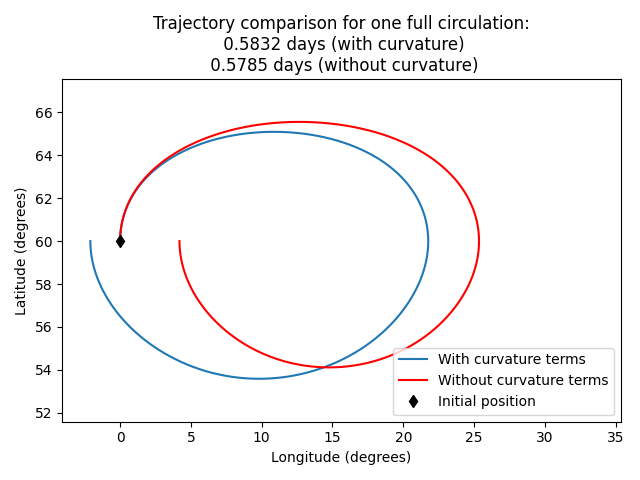
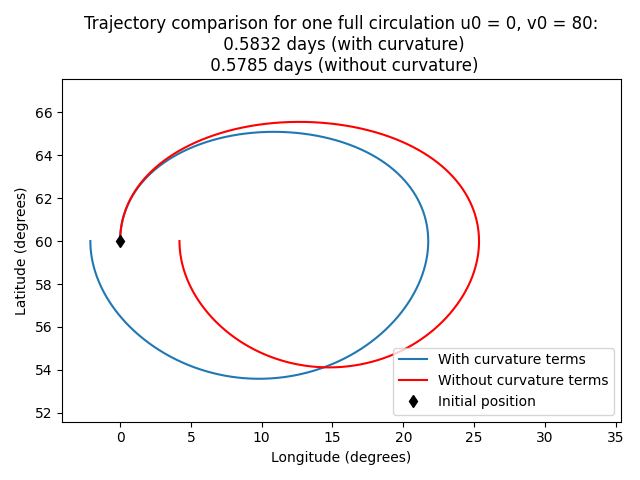
Add files via upload

Changed region(s): [[0.125, 0.0312, 0.9375, 0.0625]]

diff --git a/HW1/chapter_1/coriolis_up.py b/HW1/chapter_1/coriolis_up.py
@@ -135,7 +135,7 @@ def plot_1_circulation_in_1_window(init_lat, u0, v0, runtime_days_with_c, runtim
     plt.plot(long_with_one, lat_with_one, label='With curvature terms') #line color: rainbow
     plt.plot(long_without_one, lat_without_one, 'r', label='Without curvature terms')
     plt.plot(long_with_one[0], lat_with_one[0], 'kd', label='Initial position')
-    plt.title(f'Trajectory comparison for one full circulation:\n {runtime_days_with_c:.4f} days (with curvature)\n {runtime_days_without_c:.4f} days (without curvature)')
+    plt.title(f'Trajectory comparison for one full circulation u0 = {u0}, v0 = {v0}:\n {runtime_days_with_c:.4f} days (with curvature)\n {runtime_days_without_c:.4f} days (without curvature)')
     plt.xlabel('Longitude (degrees)')
     plt.ylabel('Latitude (degrees)')
     plt.ylim(min_lat-2, max_lat+2)  # Set y-axis limits to focus on the region around the initial latitude
@@ -215,21 +215,25 @@ def main():
     (a) Initial latitude 60°, u0 = 40 m/s, v0 = 40 m/s, runtime = 5 days.
     (b) Initial latitude 60°, u0 = 40 m/s, v0 = 80 m/s, runtime adjusted for full circuit observation.
     """
+    ## Case in code note but not in presentation
     # Case (a)
+    print('Running Case in code but not in presentation:')
     print("Running Case (a):")
     run_simulation(init_lat=60, u0=40, v0=40, runtime_days=5) # case (a) in code but not in presentation
+    # Case (b)
+    print("Running Case (b):")
     run_simulation(init_lat=60, u0=40, v0=80, runtime_days=5) # case (b) in code but not in presentation
     plot_1_circulation_in_1_window(init_lat=60, u0=40, v0=80, runtime_days_with_c=t_period_with_curvature/86400, runtime_days_without_c=t_period_without_curvature/86400)
     # One circulation for with/without curvature terms, plot in the same window for better comparison
     plot_1_circulation_in_2_windows(init_lat=60, u0=40, v0=80, runtime_days_with_c=t_period_with_curvature/86400, runtime_days_without_c=t_period_without_curvature/86400)
 
-
+    ## Case in Presentation
+    # Case (a)
+    print('Running Case in Presentation')
+    print("Running Case (a):")
     run_simulation(init_lat=60, u0=0, v0=40, runtime_days=5)
-    run_simulation(init_lat=60, u0=0, v0=80, runtime_days=5)  
-
-    # Case (b)
     print("Running Case (b):")
-
+    run_simulation(init_lat=60, u0=0, v0=80, runtime_days=5)   
     # One circulation for with/without curvature terms, plot in the two windows separately
     plot_1_circulation_in_1_window(init_lat=60, u0=0, v0=80, runtime_days_with_c=t_period_with_curvature/86400, runtime_days_without_c=t_period_without_curvature/86400)
     # One circulation for with/without curvature terms, plot in the same window for better comparison
